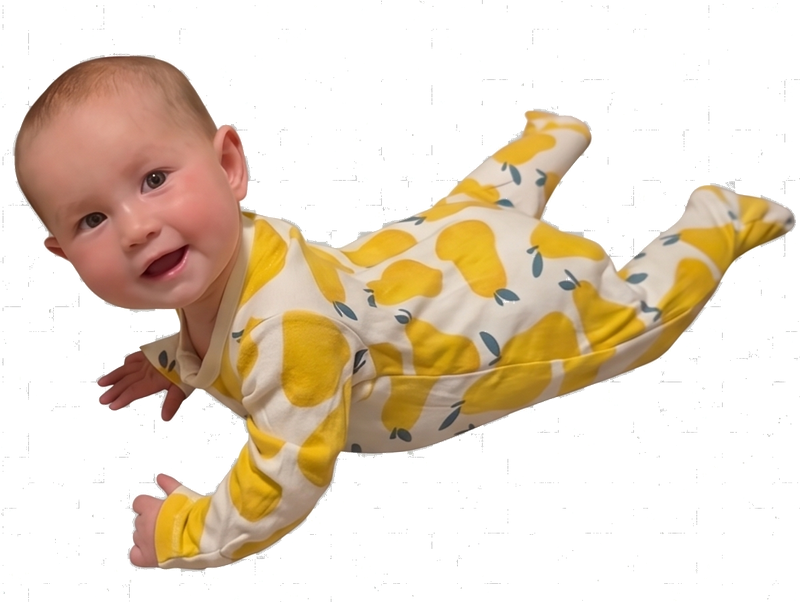
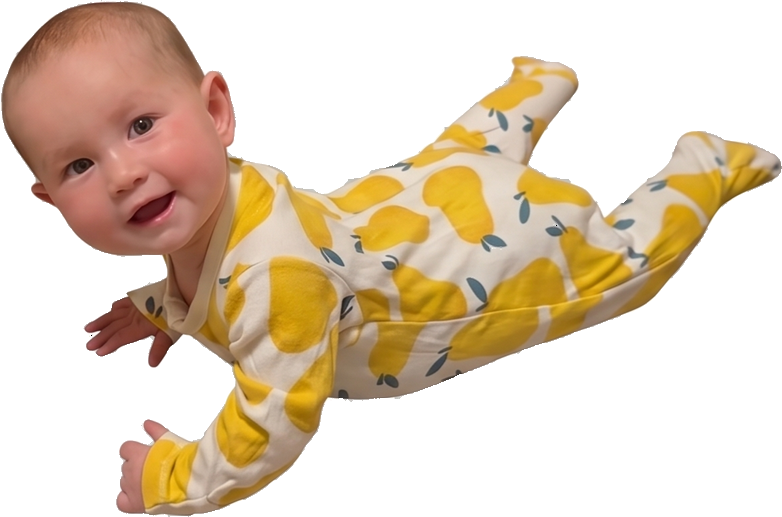
Clean checkerboard remnants from baby image and shrink footer size

Changed region(s): [[0.0, 0.0, 1.0, 1.0]]

diff --git a/app/index.tsx b/app/index.tsx
@@ -471,12 +471,10 @@ const styles = StyleSheet.create({
   babyFooter: {
     paddingTop: theme.spacing.xl,
     alignItems: 'center',
-    // Cancel the FlatList's horizontal padding so the image runs edge-to-edge.
-    marginHorizontal: -theme.spacing.lg,
   },
   babyImage: {
-    width: '100%',
-    aspectRatio: 4 / 3,
+    width: '65%',
+    aspectRatio: 782 / 517,
   },
   emptyState: {
     paddingTop: theme.spacing.xxl,
